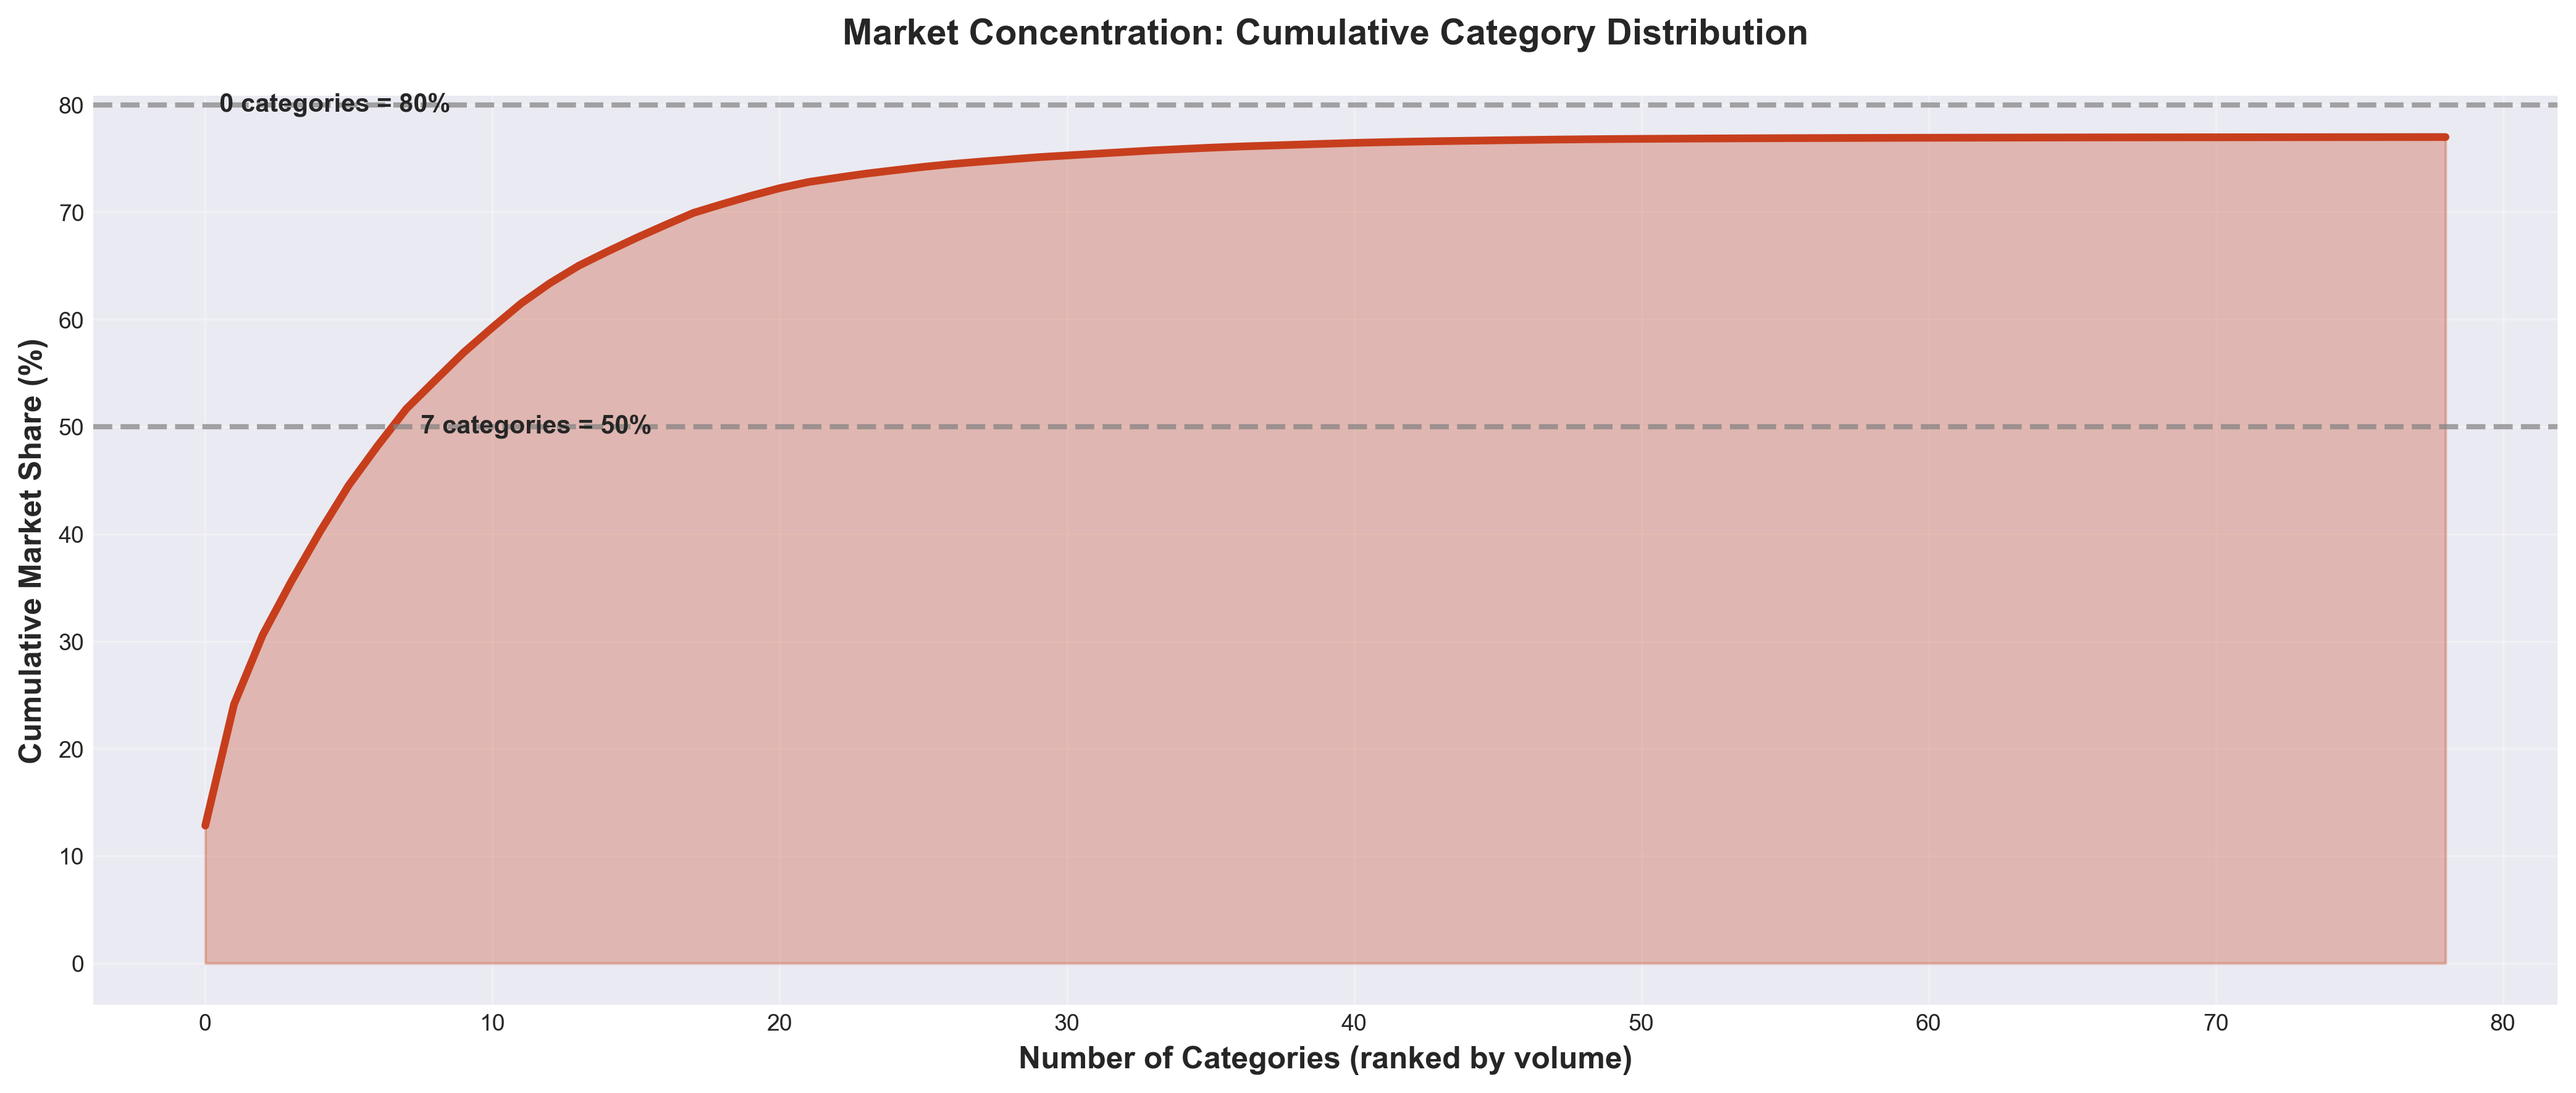
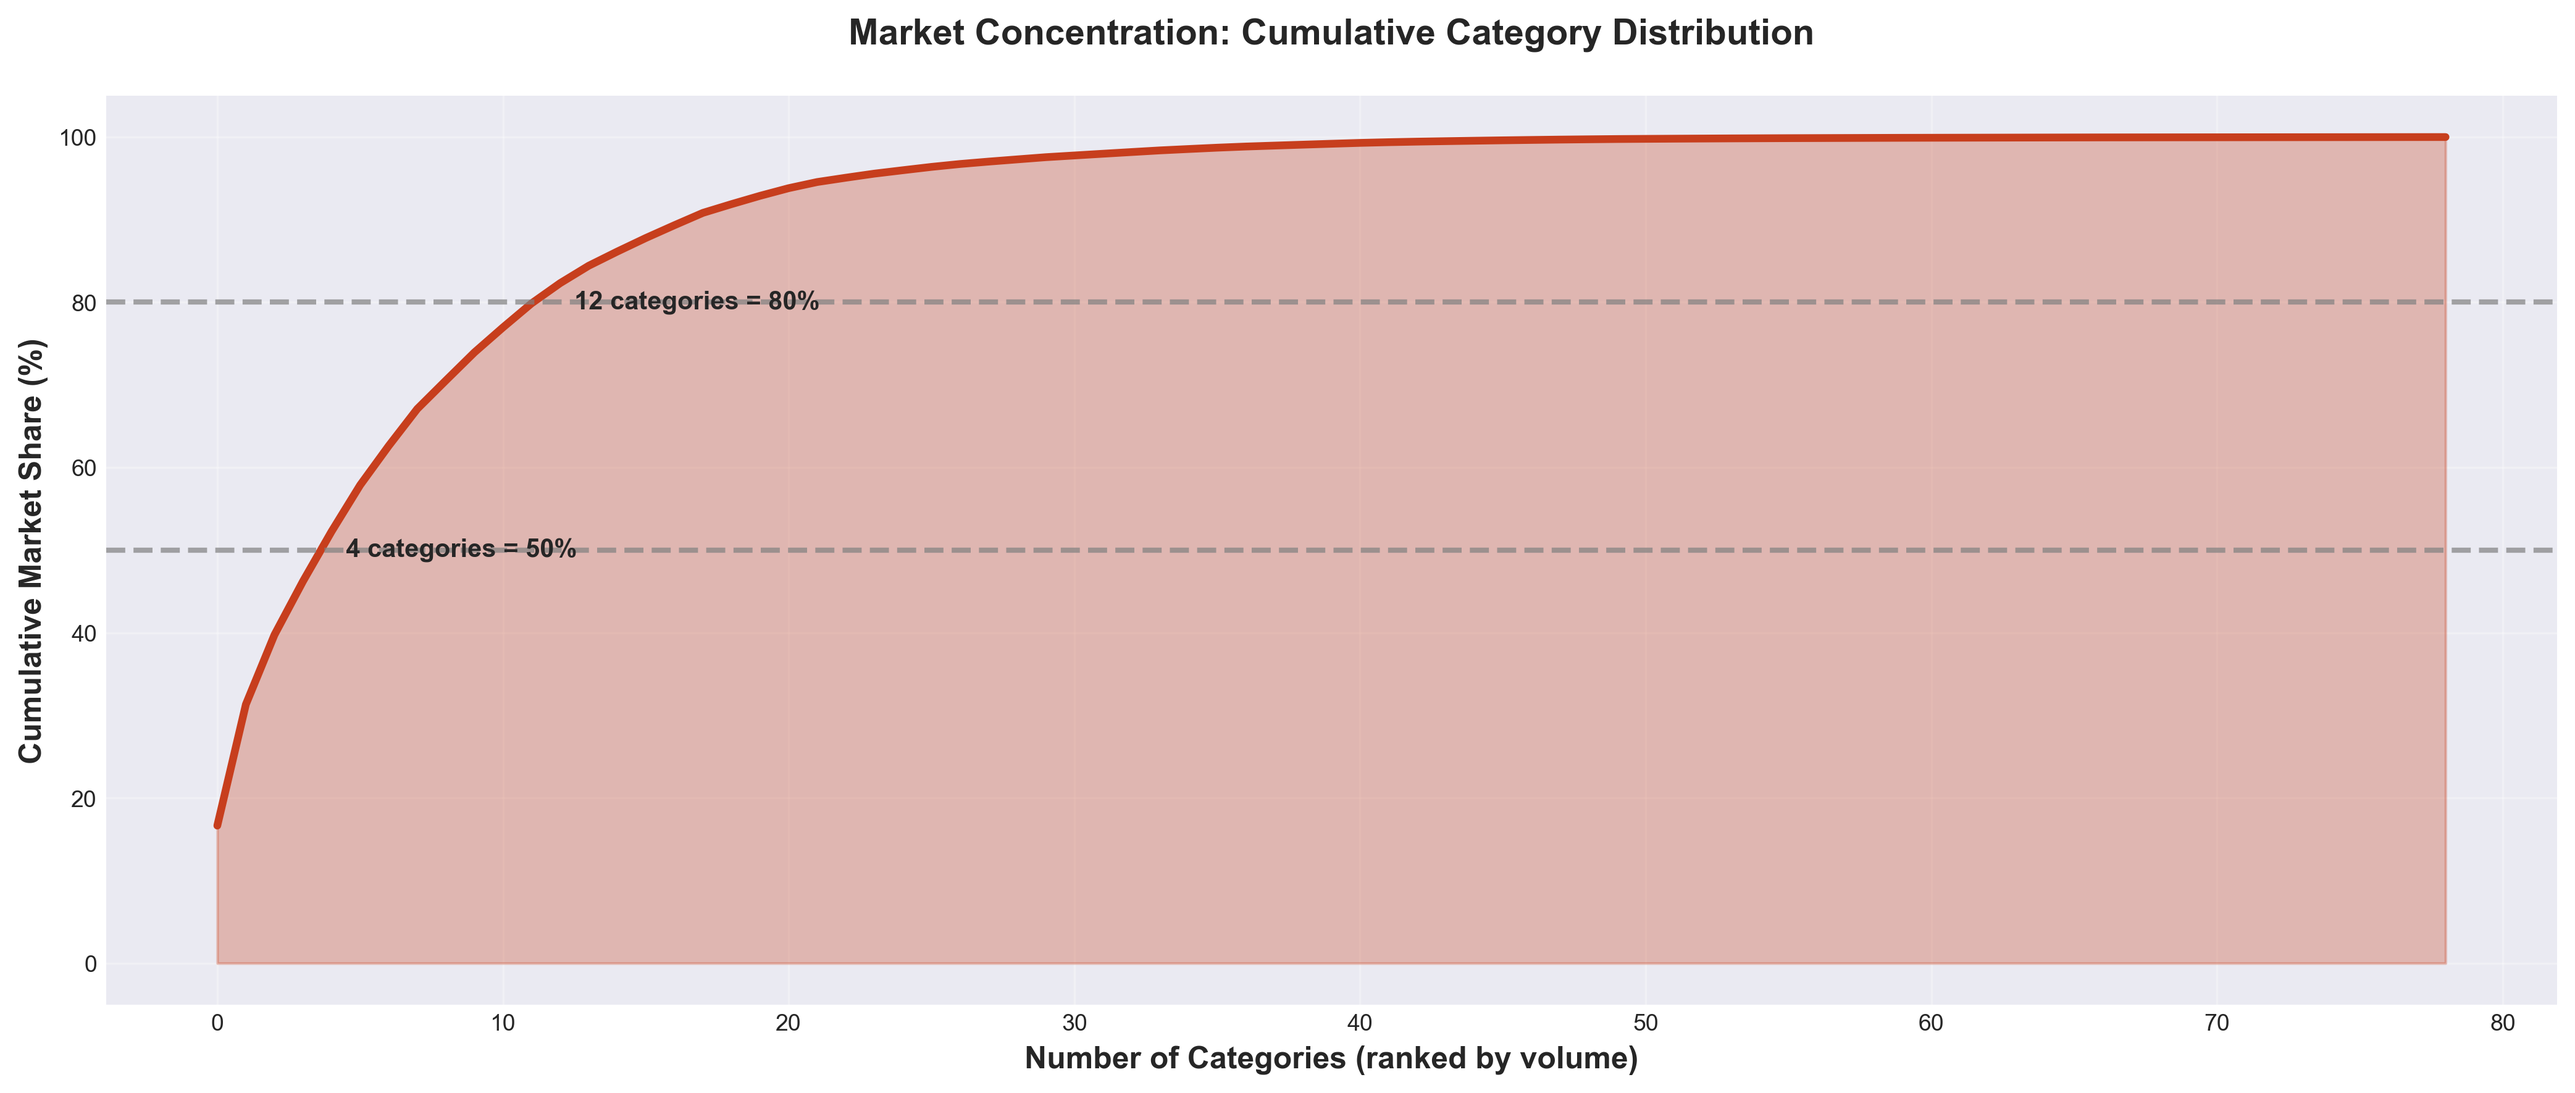
init

diff --git a/generate_charts.py b/generate_charts.py
@@ -25,17 +25,15 @@ plt.rcParams['xtick.labelsize'] = 9
 plt.rcParams['ytick.labelsize'] = 9
 
 def load_data():
-    """Load and combine all datasets"""
+    """Load latest scraped dataset only"""
     print("Loading data...")
-    df1 = pd.read_csv('listings.csv')
-    df2 = pd.read_csv('18_08_2023.csv')
-    df = pd.concat([df1, df2], ignore_index=True)
+    df = pd.read_csv('listings.csv')
 
     # Data cleaning
     df['price_clean'] = pd.to_numeric(df['price'], errors='coerce')
     df['date_clean'] = pd.to_datetime(df['date'], format='%d.%m.%Y', errors='coerce')
 
-    print(f"Loaded {len(df)} listings")
+    print(f"Loaded {len(df)} listings from latest scrape")
     return df
 
 def chart_1_market_composition(df):

diff --git a/README.md b/README.md
@@ -6,7 +6,7 @@
 
 ## Overview
 
-This report presents a comprehensive business analysis of the Unvan.az marketplace, covering **36,747 listings** across **79 categories** from September to December 2025. The analysis reveals critical market dynamics, pricing strategies, and growth opportunities that can inform strategic decision-making.
+This report presents a comprehensive business analysis of the Unvan.az marketplace, covering **28,297 listings** across **79 categories** from September to December 2025. The analysis reveals critical market dynamics, pricing strategies, and growth opportunities that can inform strategic decision-making.
 
 ---
 
@@ -14,7 +14,7 @@ This report presents a comprehensive business analysis of the Unvan.az marketpla
 
 | Metric | Value | Insight |
 |--------|-------|---------|
-| **Total Listings** | 36,747 | Substantial marketplace volume indicating healthy activity |
+| **Total Listings** | 28,297 | Substantial marketplace volume indicating healthy activity |
 | **Active Categories** | 79 | Diverse marketplace serving multiple market segments |
 | **Unique Sellers** | 1,857 | Strong seller base with varied participation levels |
 | **Average Listing Price** | 230 AZN | Mid-range pricing indicates balanced market positioning |
@@ -27,17 +27,17 @@ This report presents a comprehensive business analysis of the Unvan.az marketpla
 
 ### What the Data Shows
 
-The marketplace exhibits strong concentration in three dominant categories that together represent **30.6% of all listings**:
+The marketplace exhibits strong concentration in three dominant categories that together represent **39.8% of all listings**:
 
-1. **Mebellər (Furniture)** - 4,712 listings (12.8%)
-2. **İş elanları (Job Postings)** - 4,152 listings (11.3%)
-3. **Digər xidmətlər (Other Services)** - 2,381 listings (6.5%)
+1. **Mebellər (Furniture)** - 4,712 listings (16.7%)
+2. **İş elanları (Job Postings)** - 4,152 listings (14.7%)
+3. **Digər xidmətlər (Other Services)** - 2,381 listings (8.4%)
 
 ![Market Composition](charts/01_market_composition.png)
 
 ### Business Implications
 
-**Market Concentration Risk**: Just 7 categories control 50% of all marketplace activity. This creates both opportunity and vulnerability:
+**Market Concentration Risk**: Just 4 categories control 50% of all marketplace activity. This creates both opportunity and vulnerability:
 - **Opportunity**: Focus optimization efforts on these high-volume categories to maximize impact
 - **Risk**: Over-reliance on few categories makes the platform vulnerable to category-specific downturns
 
